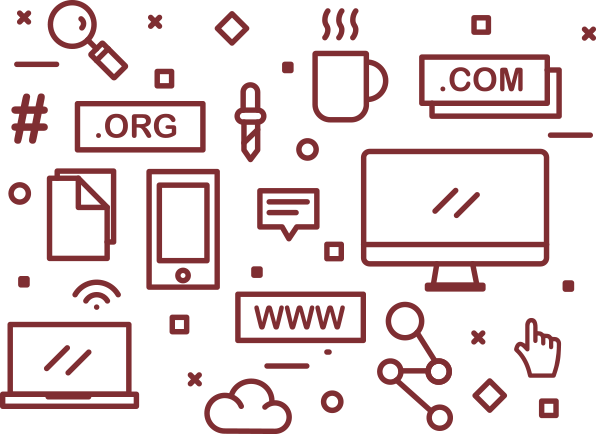
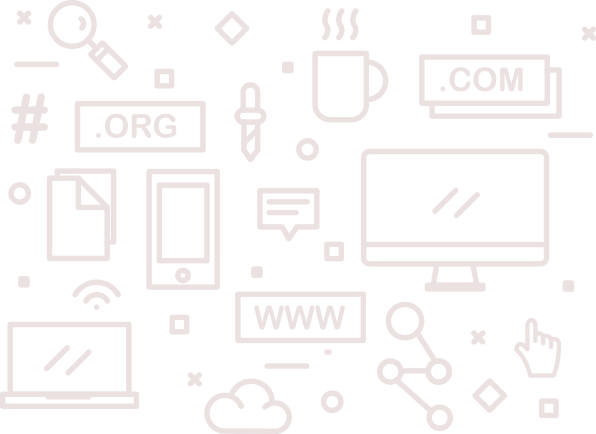
style: pattern less transparent

diff --git a/src/sass/pages/_inscription.scss b/src/sass/pages/_inscription.scss
@@ -2,7 +2,7 @@
     background-color: $red;
     padding-top: 15vh;
     padding-bottom: 15vh;
-    background-image: url(../contents/images/patternlow.png);
+    background-image: url(../contents/images/pattern.png);
     .container {
         width: 100%;
         padding-right: 0px;

diff --git a/src/sass/components/_header.scss b/src/sass/components/_header.scss
@@ -24,7 +24,7 @@
 }
 
 header.main-header {
-    background-image: url(../contents/images/patternlow.png);
+    background-image: url(../contents/images/pattern.png);
     & {
         position: relative;
         overflow: hidden;
